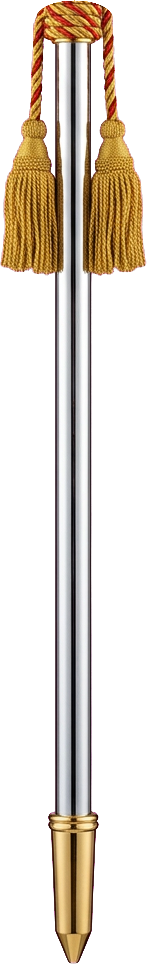
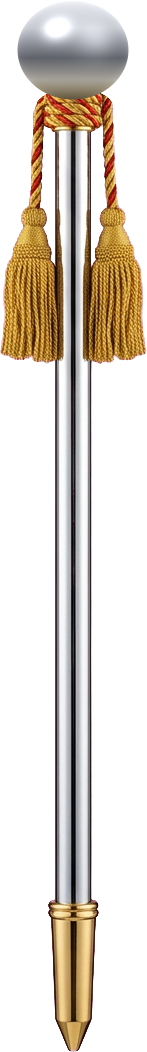
Give the mace a round ball head
Correcting the previous change, which read "remove the finial" too literally
and left the mace headless. A real marching mace of this kind carries a plain
rounded ball, which is what the reference photograph shows.

The crown still had to come off at the cord binding for the reasons in the last
commit. scripts/mace-head.mjs now renders a ball to sit on it, in the shaft's
own sampled material: a vertical environment gradient, a key highlight, a
weaker fill from the right, a fresnel rim, a warm bounce off the gold cord, and
contact shading where it seats. Drawn rather than photographed because the
generation balance is spent.

First pass modelled it as a mirror, with a hard dark horizon band. That reads
as a 3D render rather than a photographed object, and the reference mace is
tarnished and soft-shaded, so the environment was flattened to satin.

diff --git a/README.md b/README.md
@@ -68,10 +68,19 @@ objects can share one generated frame, and drops stray render fragments by keepi
 Magenta is the key colour because nothing in the set, brass, chrome, drum head or wood, comes near
 it.
 
-**These are stand-ins.** They are generic instruments, not the band's own. In particular the mace
-carries a European crown and eagle finial, which an NYSC band's mace very likely does not. Replace
-them with photographs of the band's actual gear when it can be shot: plain background, even daylight,
-one object per frame, and the same two scripts will process them.
+The mace needed more work than the rest. It generated with a European crown and eagle finial, where
+a real marching mace of this kind carries a plain rounded ball. The finial is cut off at the cord
+binding, because the fluted socket above it flares upward and any cut through it leaves an open cup,
+and polished gold shows a flat cut edge that masking cannot shade away. `scripts/mace-head.mjs` then
+renders a replacement ball in the shaft's own material. It is drawn rather than photographed because
+the generation balance was spent; polished metal models well, being mostly a vertical environment
+gradient with a specular highlight, a fresnel rim and a warm bounce off the gold cord below. That
+script is a one-off already applied to the asset, and re-running it would stack a second head on the
+first.
+
+**These are all stand-ins.** They are generic instruments, not the band's own. Replace them with
+photographs of the band's actual gear when it can be shot: plain background, even daylight, one
+object per frame, and the same scripts will process them.
 
 ## Layout
 
